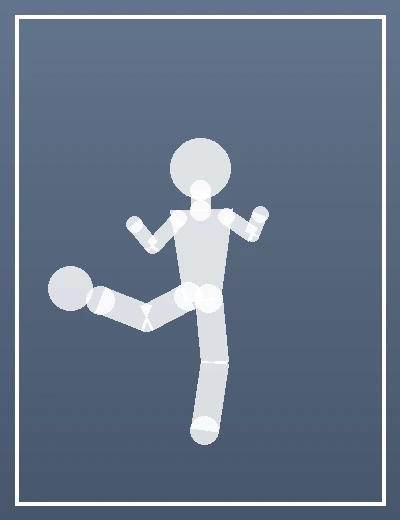
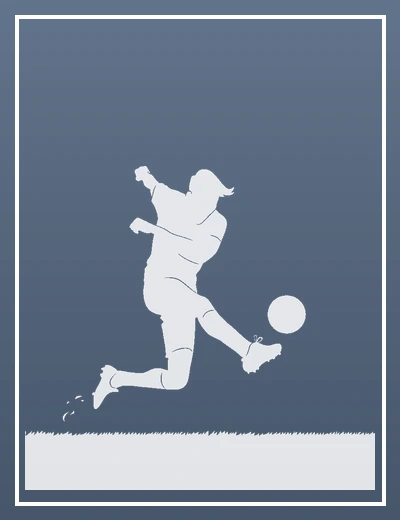
Fix pack update crash and refresh player placeholder art
update_pack deleted old PackRarityProbability rows via db.delete() but
left them in the already-loaded pack.rarity_probabilities collection,
so the subsequent db.add(pack)/commit raised "Instance has been
deleted" on every pack save that included rarity probabilities (i.e.
every save from the admin panel). Mutating the relationship collection
directly lets the existing delete-orphan cascade handle it correctly.

Also replaces the player placeholder image with a football-player
silhouette matching the app's card style.

Changed region(s): [[0.06, 0.2462, 0.96, 0.9538], [0.15, 0.7692, 0.18, 0.8]]

diff --git a/backend/tests/test_admin_packs.py b/backend/tests/test_admin_packs.py
@@ -1,0 +1,64 @@
+from tests.utils import telegram_headers
+
+
+async def _admin_auth(client, bot_token):
+    headers = telegram_headers(999000001, bot_token)  # matches ADMIN_TELEGRAM_IDS in conftest
+    session_resp = await client.post("/api/v1/auth/session", headers=headers)
+    admin_token = session_resp.json()["admin_token"]
+    return {"Authorization": f"Bearer {admin_token}"}
+
+
+def _pack_payload(**overrides):
+    payload = {
+        "slug": "admin-test-pack",
+        "name": "Admin Test Pack",
+        "description": "",
+        "price": 100,
+        "card_count": 1,
+        "guaranteed_min_rarity": None,
+        "is_active": True,
+        "image_path": None,
+        "rarity_probabilities": [{"rarity": "common", "probability": 1.0}],
+    }
+    payload.update(overrides)
+    return payload
+
+
+async def test_create_pack(client, db_session, bot_token):
+    auth = await _admin_auth(client, bot_token)
+    resp = await client.post("/api/v1/admin/packs", headers=auth, json=_pack_payload())
+    assert resp.status_code == 200
+    assert resp.json()["card_count"] == 1
+
+
+async def test_update_pack_card_count_persists(client, db_session, bot_token):
+    auth = await _admin_auth(client, bot_token)
+    create_resp = await client.post("/api/v1/admin/packs", headers=auth, json=_pack_payload())
+    pack_id = create_resp.json()["id"]
+
+    update_payload = _pack_payload(card_count=2)
+    del update_payload["slug"]
+    update_resp = await client.put(f"/api/v1/admin/packs/{pack_id}", headers=auth, json=update_payload)
+    assert update_resp.status_code == 200
+    assert update_resp.json()["card_count"] == 2
+
+    list_resp = await client.get("/api/v1/admin/packs", headers=auth)
+    updated = next(p for p in list_resp.json() if p["id"] == pack_id)
+    assert updated["card_count"] == 2
+
+
+async def test_update_pack_can_be_saved_twice_in_a_row(client, db_session, bot_token):
+    # Regression: a stale rarity_probabilities collection made the second save fail.
+    auth = await _admin_auth(client, bot_token)
+    create_resp = await client.post("/api/v1/admin/packs", headers=auth, json=_pack_payload())
+    pack_id = create_resp.json()["id"]
+
+    update_payload = _pack_payload(card_count=2)
+    del update_payload["slug"]
+    first = await client.put(f"/api/v1/admin/packs/{pack_id}", headers=auth, json=update_payload)
+    assert first.status_code == 200
+
+    update_payload["card_count"] = 3
+    second = await client.put(f"/api/v1/admin/packs/{pack_id}", headers=auth, json=update_payload)
+    assert second.status_code == 200
+    assert second.json()["card_count"] == 3

diff --git a/backend/app/routers/admin_packs.py b/backend/app/routers/admin_packs.py
@@ -75,11 +75,10 @@ async def update_pack(pack_id: int, payload: PackUpdate, request: Request, db: A
 
     if payload.rarity_probabilities is not None:
         _validate_probabilities(payload.rarity_probabilities)
-        for rp in list(pack.rarity_probabilities):
-            await db.delete(rp)
+        pack.rarity_probabilities.clear()
         await db.flush()
         for rp in payload.rarity_probabilities:
-            db.add(PackRarityProbability(pack_id=pack.id, rarity=rp.rarity, probability=rp.probability))
+            pack.rarity_probabilities.append(PackRarityProbability(rarity=rp.rarity, probability=rp.probability))
 
     db.add(pack)
     await log_action(